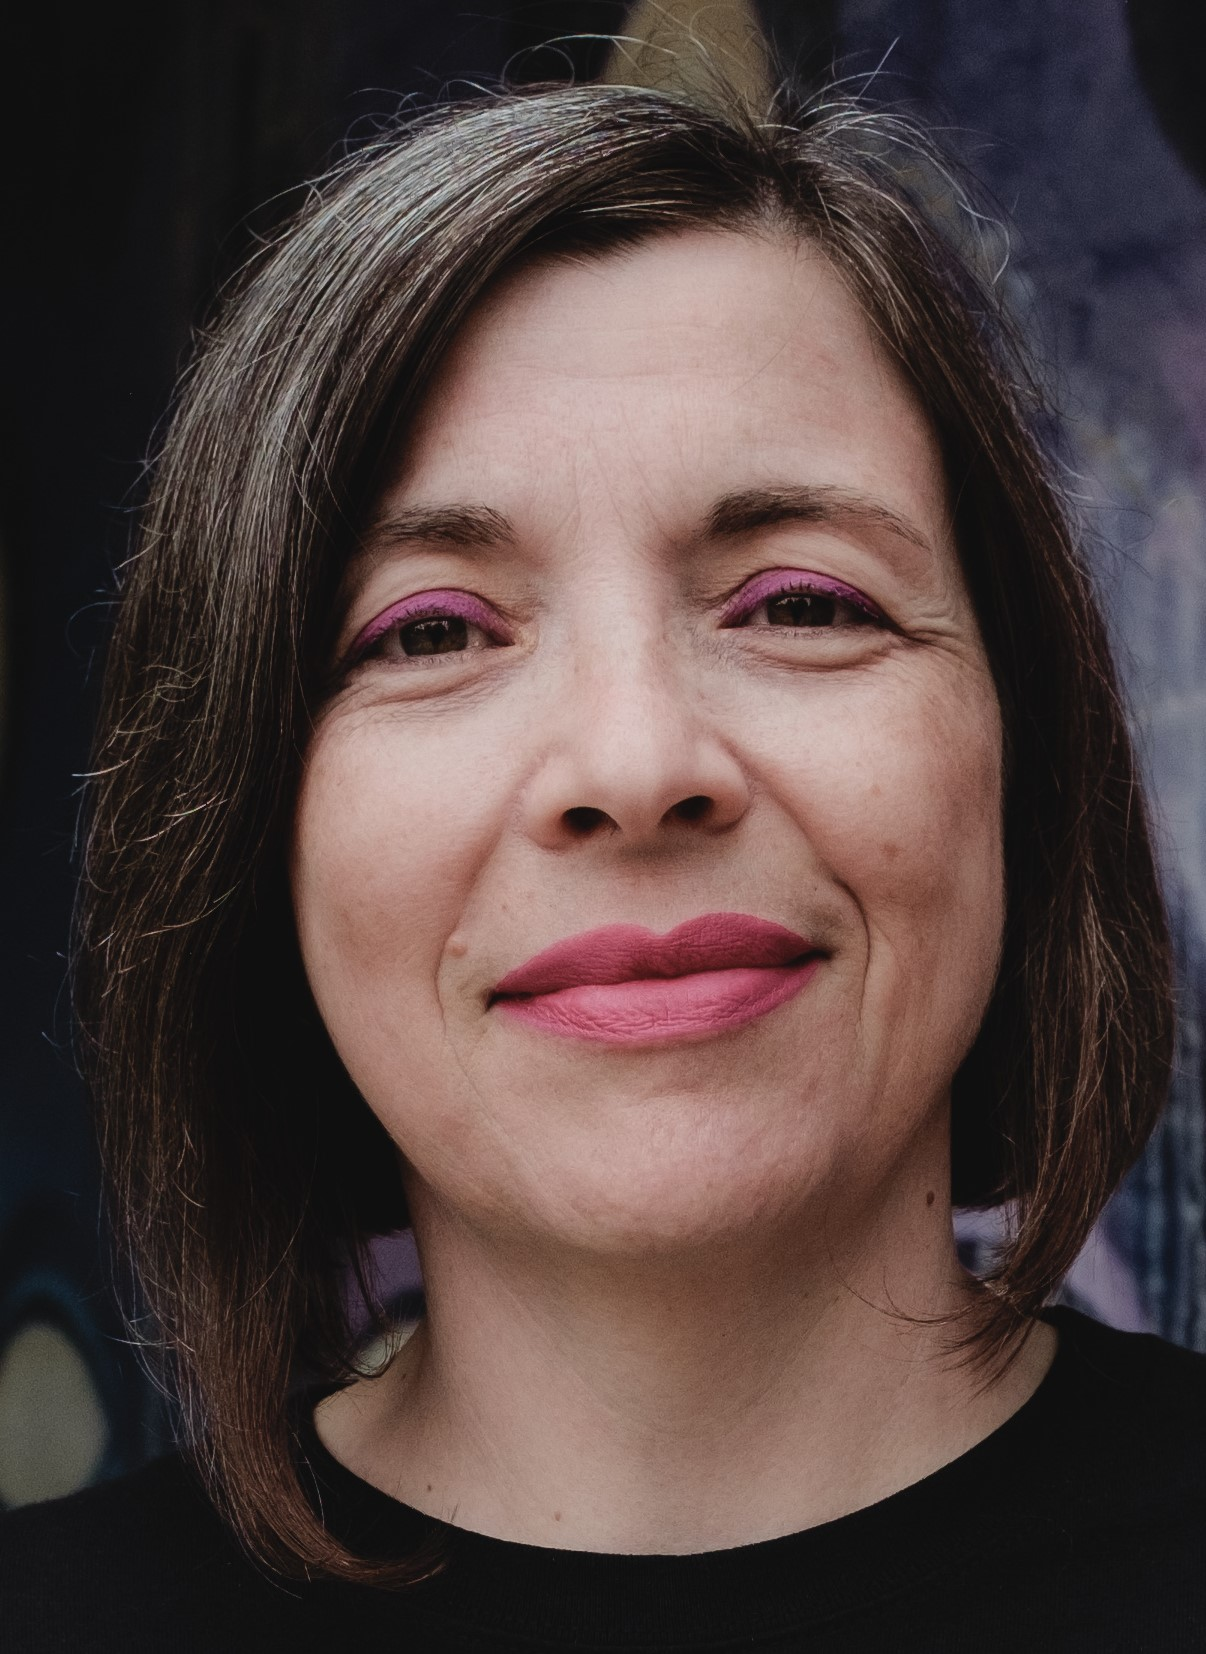
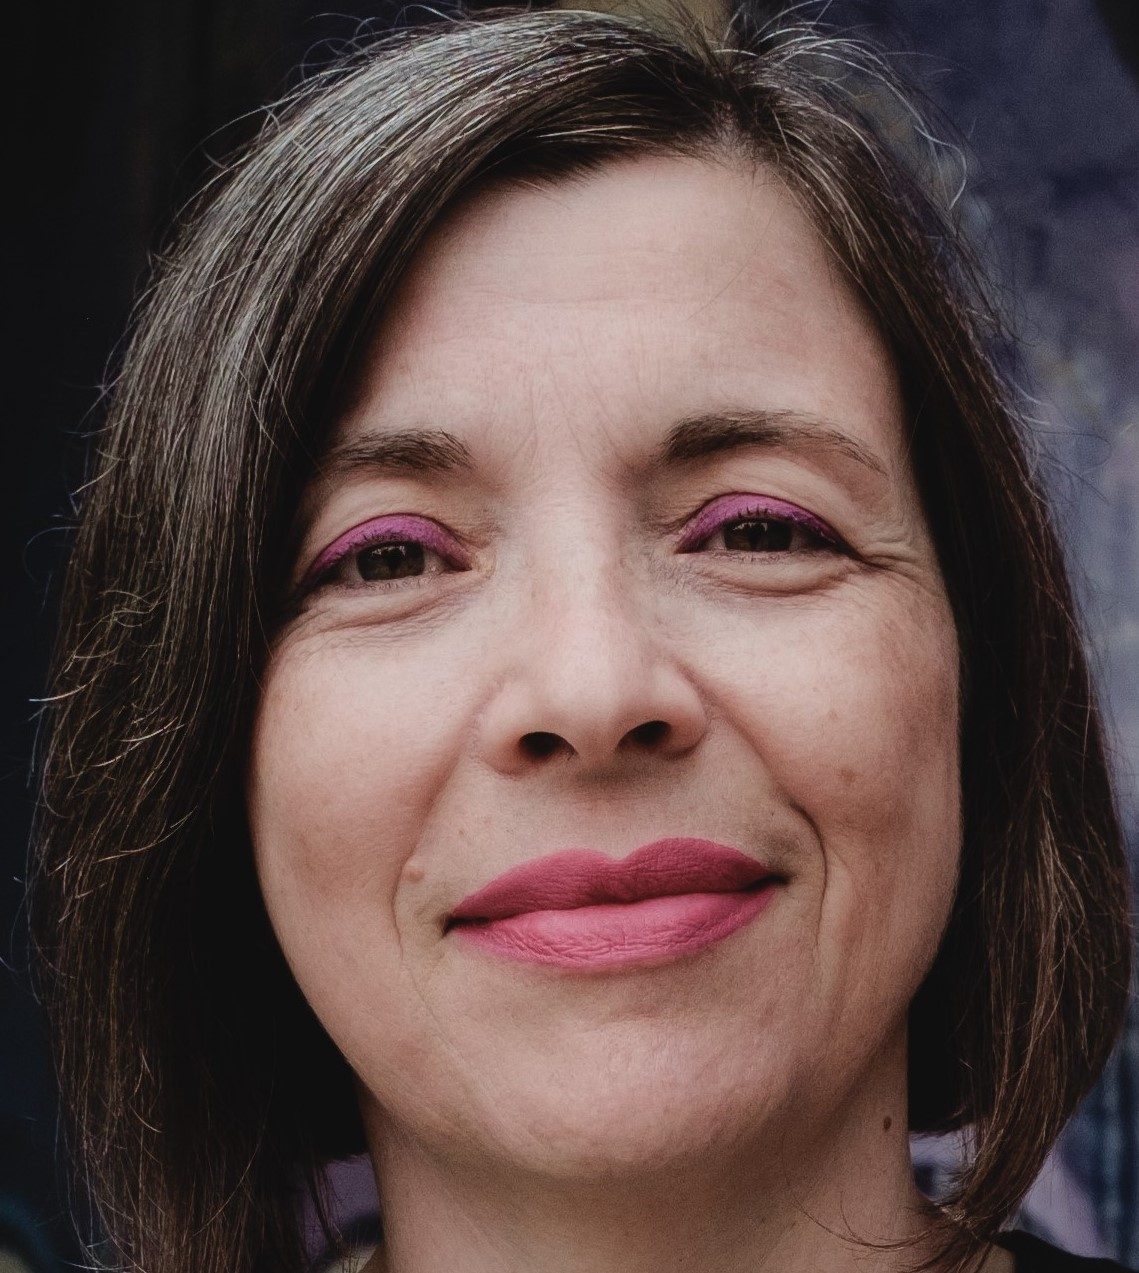
Update KatrinaDuranceWebsite

diff --git a/pages/about-me.html b/pages/about-me.html
@@ -21,10 +21,12 @@
     </header>
 
     <section class="text-img-wrapper">
+        <img class="Katrina-headshot" src="../images/Katrina-headshot.jpg" alt="Katrina Durance headshot">
+        <img class="Katrina-sitting" src="../images/Katrina-sitting-mural.png" all="Katrina Durance sitting in front of mural">
         <p class="about-me-text">
-            Lorem ipsum dolor sit amet, consectetur adipiscing elit, sed do eiusmod tempor incididunt ut labore et dolore magna aliqua. Habitant morbi tristique senectus et netus et malesuada. Sagittis aliquam malesuada bibendum arcu vitae elementum curabitur vitae nunc. Laoreet sit amet cursus sit amet dictum sit. Et sollicitudin ac orci phasellus egestas tellus rutrum tellus pellentesque. Fusce ut placerat orci nulla. Nec tincidunt praesent semper feugiat nibh sed pulvinar. Ac tincidunt vitae semper quis lectus nulla at. Velit ut tortor pretium viverra suspendisse potenti nullam ac tortor. Tincidunt arcu non sodales neque sodales ut etiam sit amet. Et malesuada fames ac turpis egestas sed tempus. Morbi tristique senectus et netus et. Viverra adipiscing at in tellus integer. Id consectetur purus ut faucibus pulvinar elementum integer. Commodo viverra maecenas accumsan lacus. Aliquam etiam erat velit scelerisque in. Pellentesque dignissim enim sit amet venenatis urna. Fames ac turpis egestas sed.
+            Hi, I'm Katrina!<br><br>I'm a mid-life career switcher to tech. I started out in data analytics but decided to transition to frontend web development.
         </p>
-        <img class="Katrina-sitting" src="../images/Katrina-headshot.jpg" alt="Katrina Durance headshot">
+        </p>
     </section>
 
     <footer class="footer-about-me">

diff --git a/CSS/styles-400px-or-less.css b/CSS/styles-400px-or-less.css
@@ -95,6 +95,7 @@
         font-weight: 400;
         justify-content: center;
         text-decoration: none;
+        white-space: nowrap;
     }
 
     .asteroid {
@@ -125,16 +126,23 @@
     }
 
     .about-me-text {
-        padding: .25em;
+        margin-left: 1em;
+        margin-right: 1em;
         white-space: wrap;
     }
+
     .Katrina-sitting {
+        display: none;
+    }
+    
+    .Katrina-headshot {
         border-radius: 20%;
-        border:.25em solid rgb(184,56,228);
+        border: 2px solid rgb(184,56,228); 
+        display: block;
         height: auto;
-        margin-left: 2em;
-        margin-right: 2em;
-        width: 20em;
+        margin-bottom: .5em;
+        margin-top: .5em;
+        width: 18em;
     }
 
     .footer-about-me {

diff --git a/CSS/styles-401px-700px.css b/CSS/styles-401px-700px.css
@@ -92,6 +92,7 @@
         font-weight: 500;
         justify-content: center;
         text-decoration: none;
+        white-space: nowrap;
     }
 
     .asteroid {
@@ -123,14 +124,20 @@
 
     .about-me-text {
         padding: 1em;
+    }
+
+    .Katrina-headshot {
+        display: none;
+    }
 
     .Katrina-sitting {
         border-radius: 20%;
-        border:.25em solid rgb(184,56,228);
+        border: 2px solid rgb(184,56,228); 
+        display: flex;
         height: auto;
-        margin-left: 3em;
-        margin-right: 3em;
-        width: 20em;
+        margin-left: .5em;
+        margin-right: 1em;
+        width: 28em;
     }
 
     .footer-about-me {

diff --git a/CSS/styles-701px-or-more.css b/CSS/styles-701px-or-more.css
@@ -121,13 +121,18 @@
         justify-content: center;
     }
 
+    .Katrina-headshot {
+        display: none;
+    }
+
     .Katrina-sitting {
         border-radius: 20%;
-        border:.25em solid rgb(184,56,228);
+        border: 2px solid rgb(184,56,228); 
+        display: block;
         height: auto;
-        margin-left: 3em;
-        margin-right: 3em;
-        width: 40em;
+        margin-bottom: .5em;
+        margin-top: .5em;
+        width: 30em;
     }
 
     .footer-about-me {
